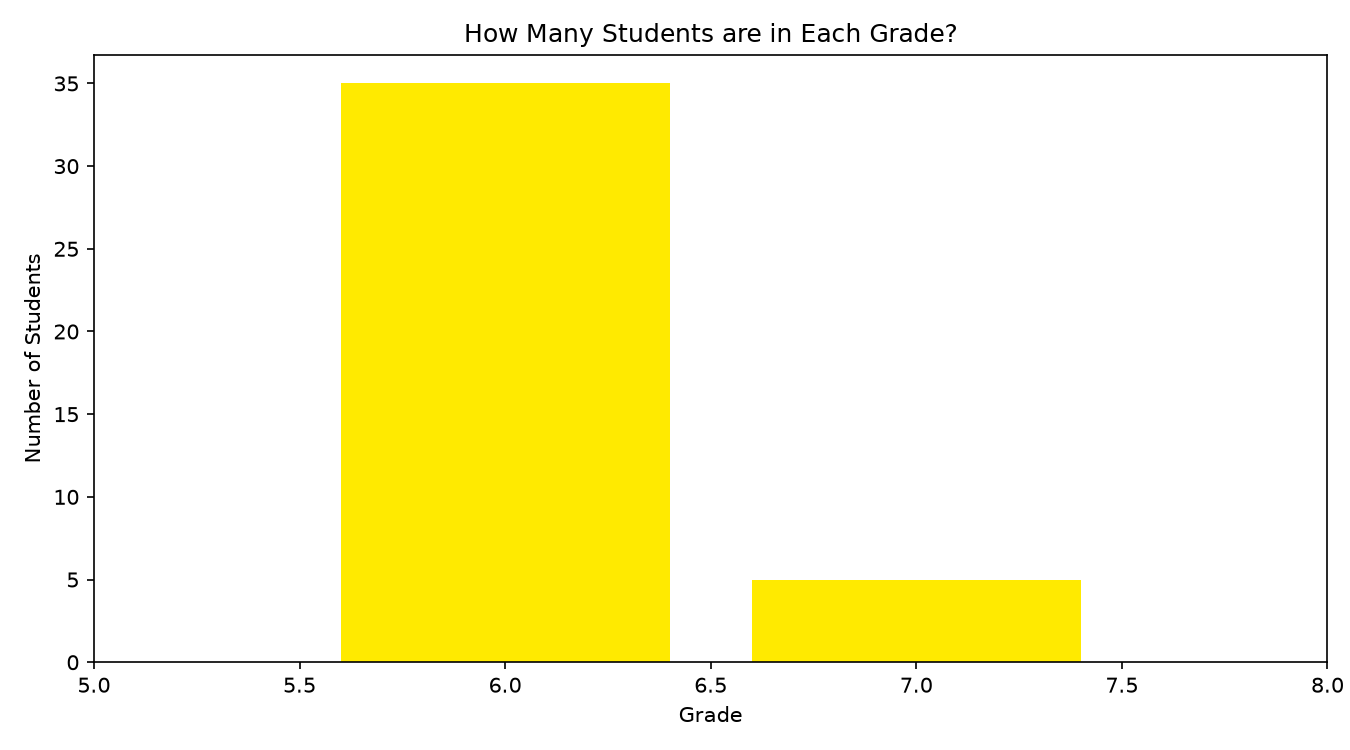
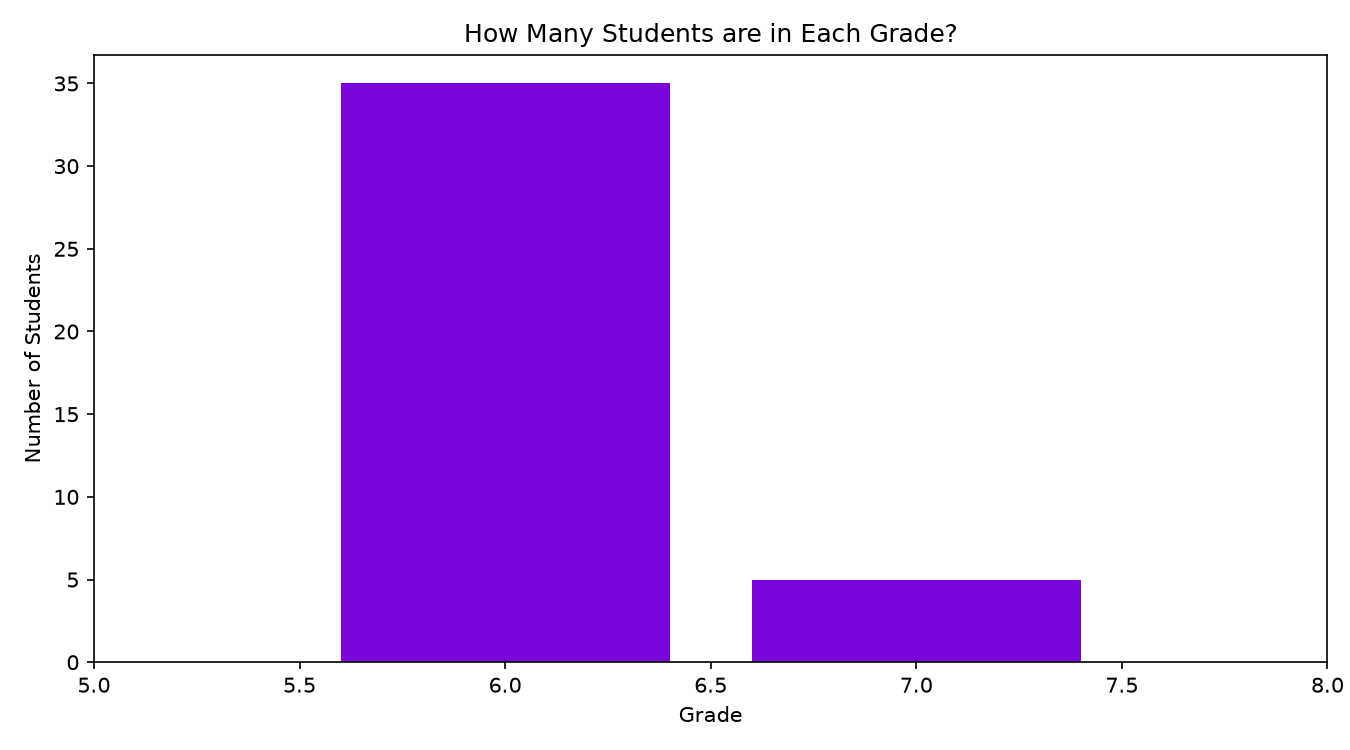
Corrected x-labels

Changed region(s): [[0.2489, 0.092, 0.4978, 0.8893], [0.56, 0.7667, 0.8089, 0.8893]]

diff --git a/survey_report.py b/survey_report.py
@@ -36,10 +36,12 @@ print(f"Finding one: 35 students are in 6th grade, while 5 are in 7th.")
 print(f"Finding two: 11 students have fish, 9 have hamsters, 5 have cats, 10 don't have a pet, and 5 have a dog.")
 
 #%%
+#Does minutes reading affect minutes gaming
+
 plt.figure(figsize=(9,5))
 plt.scatter(survey["minutes_reading"], survey["minutes_gaming"], color="#7B06DB", edgecolor="white")
 plt.title("Does Our Time Reading Affect Our Time Gaming?")
-plt.xlabel("Minutes Gaming")
+plt.xlabel("Minutes Reading")
 plt.ylabel("Minutes Gaming")
 plt.tight_layout()
 plt.show()
